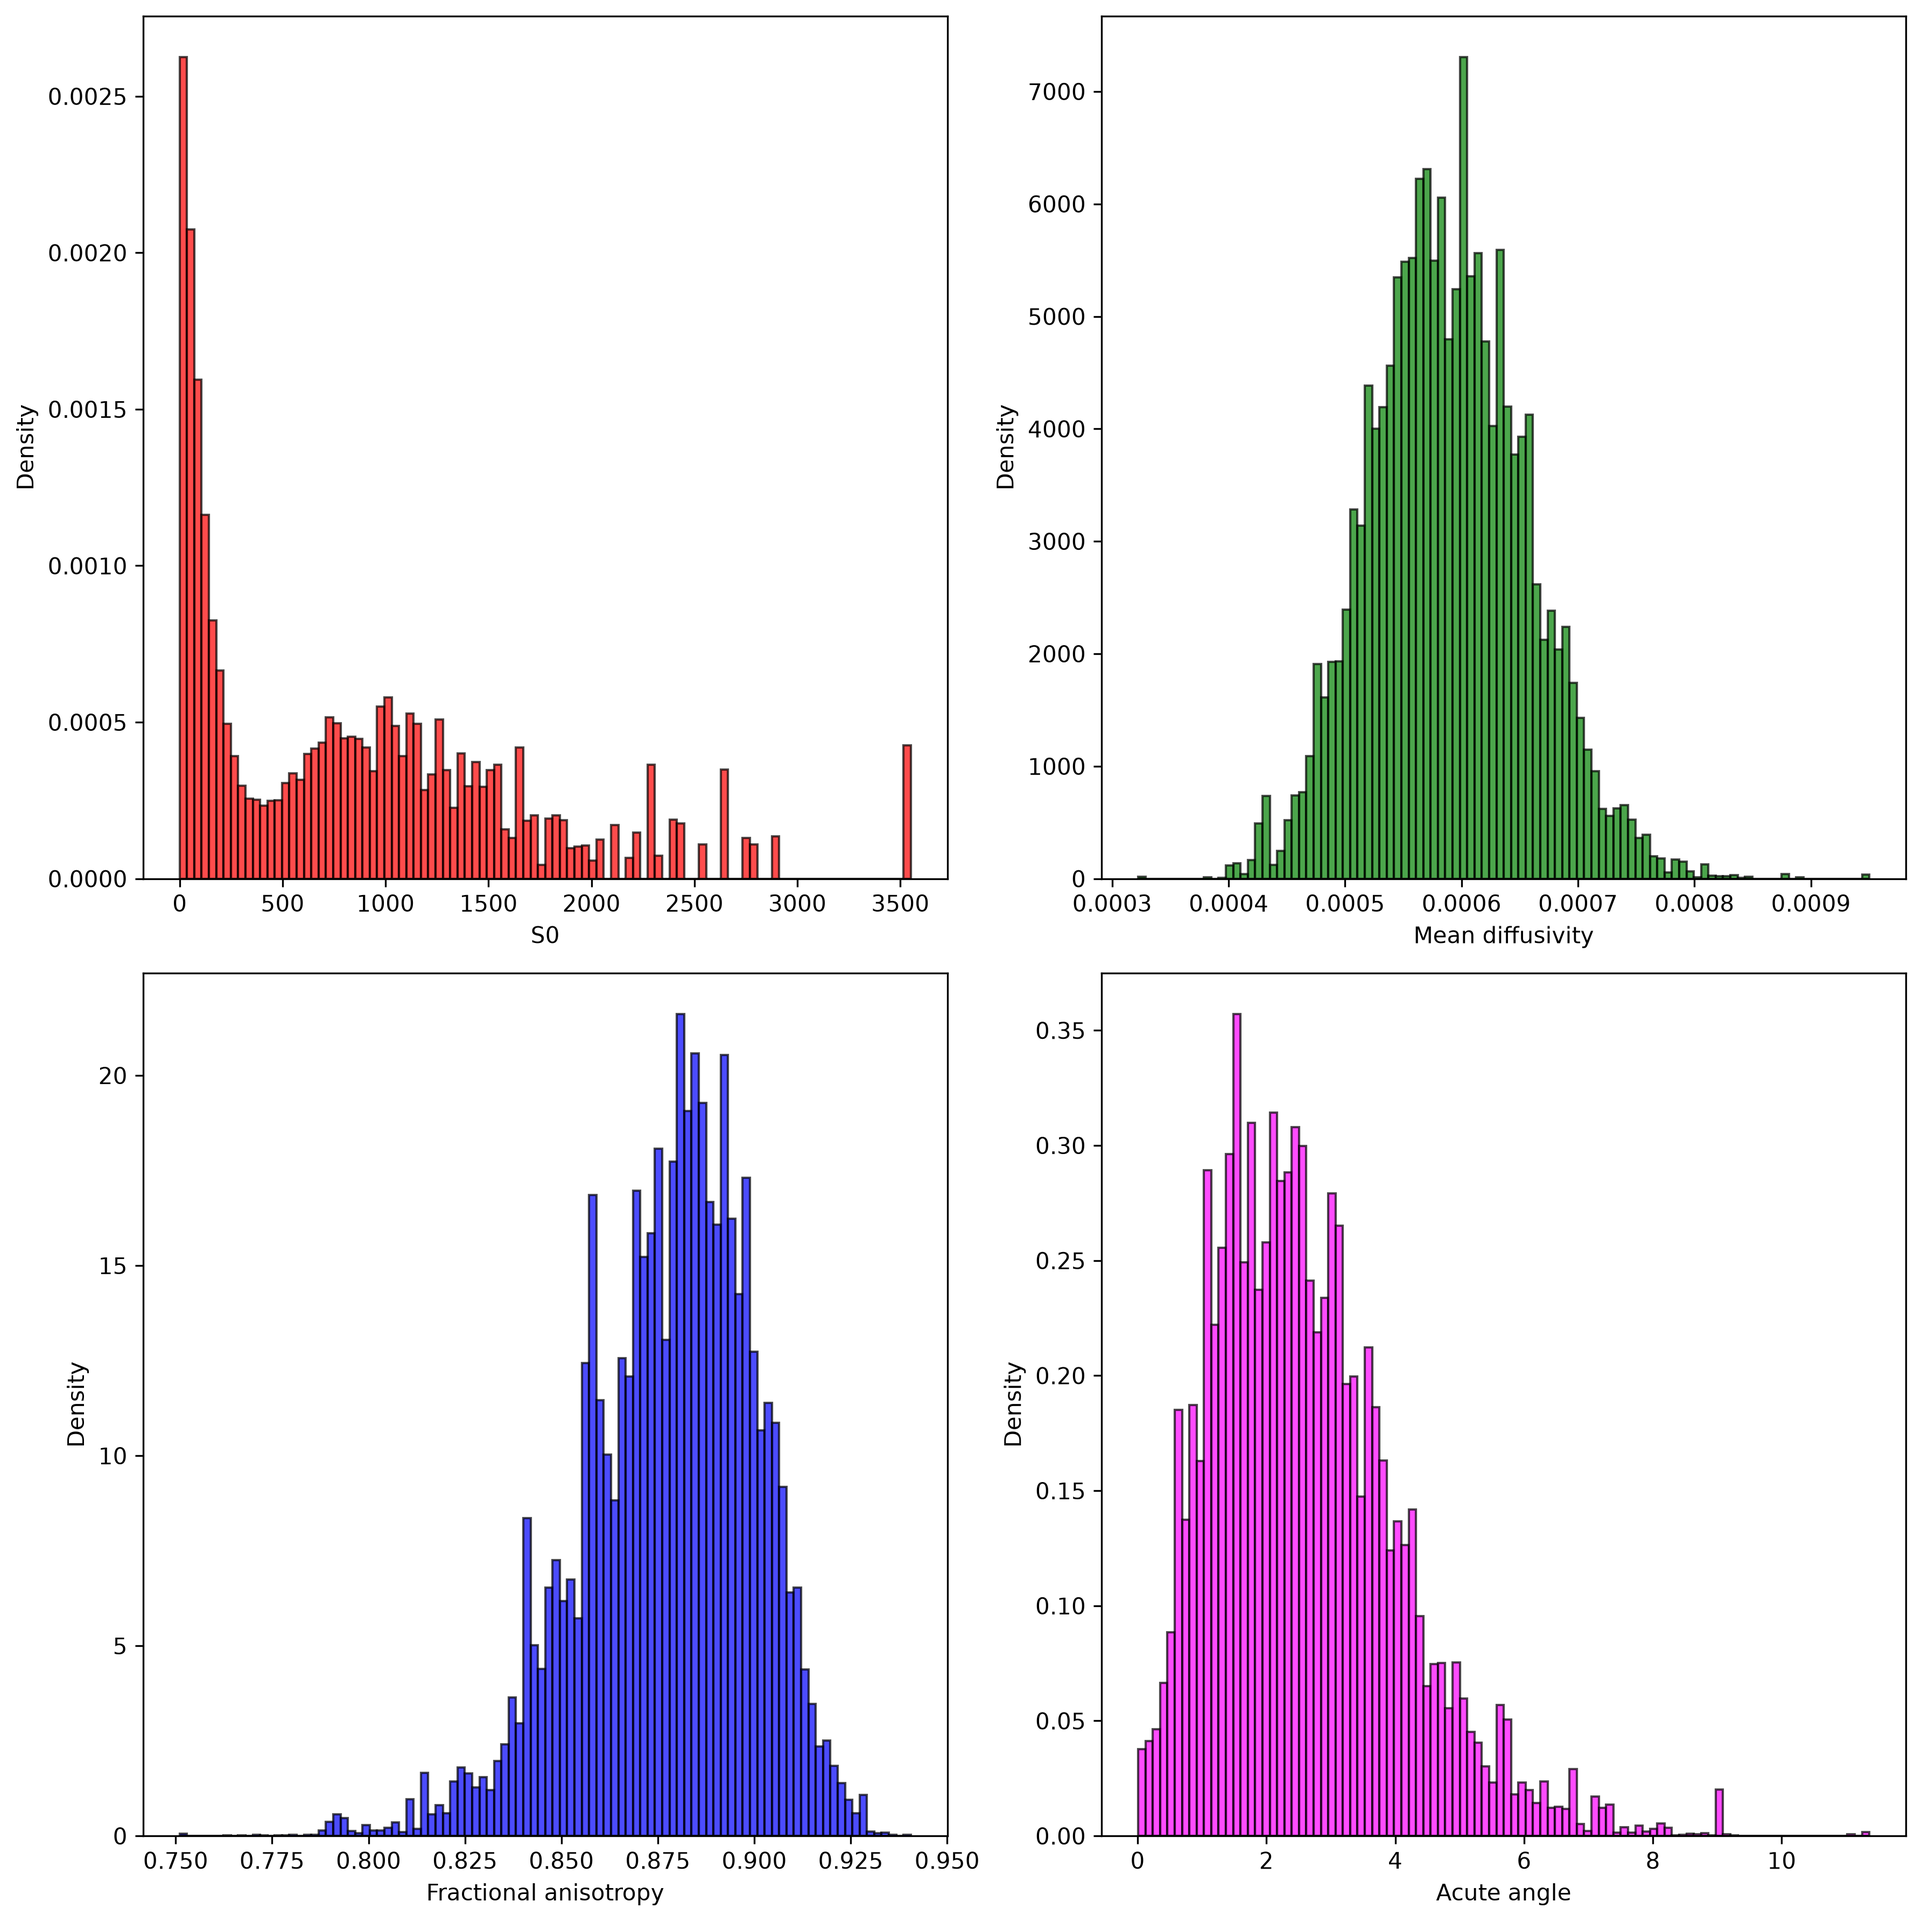
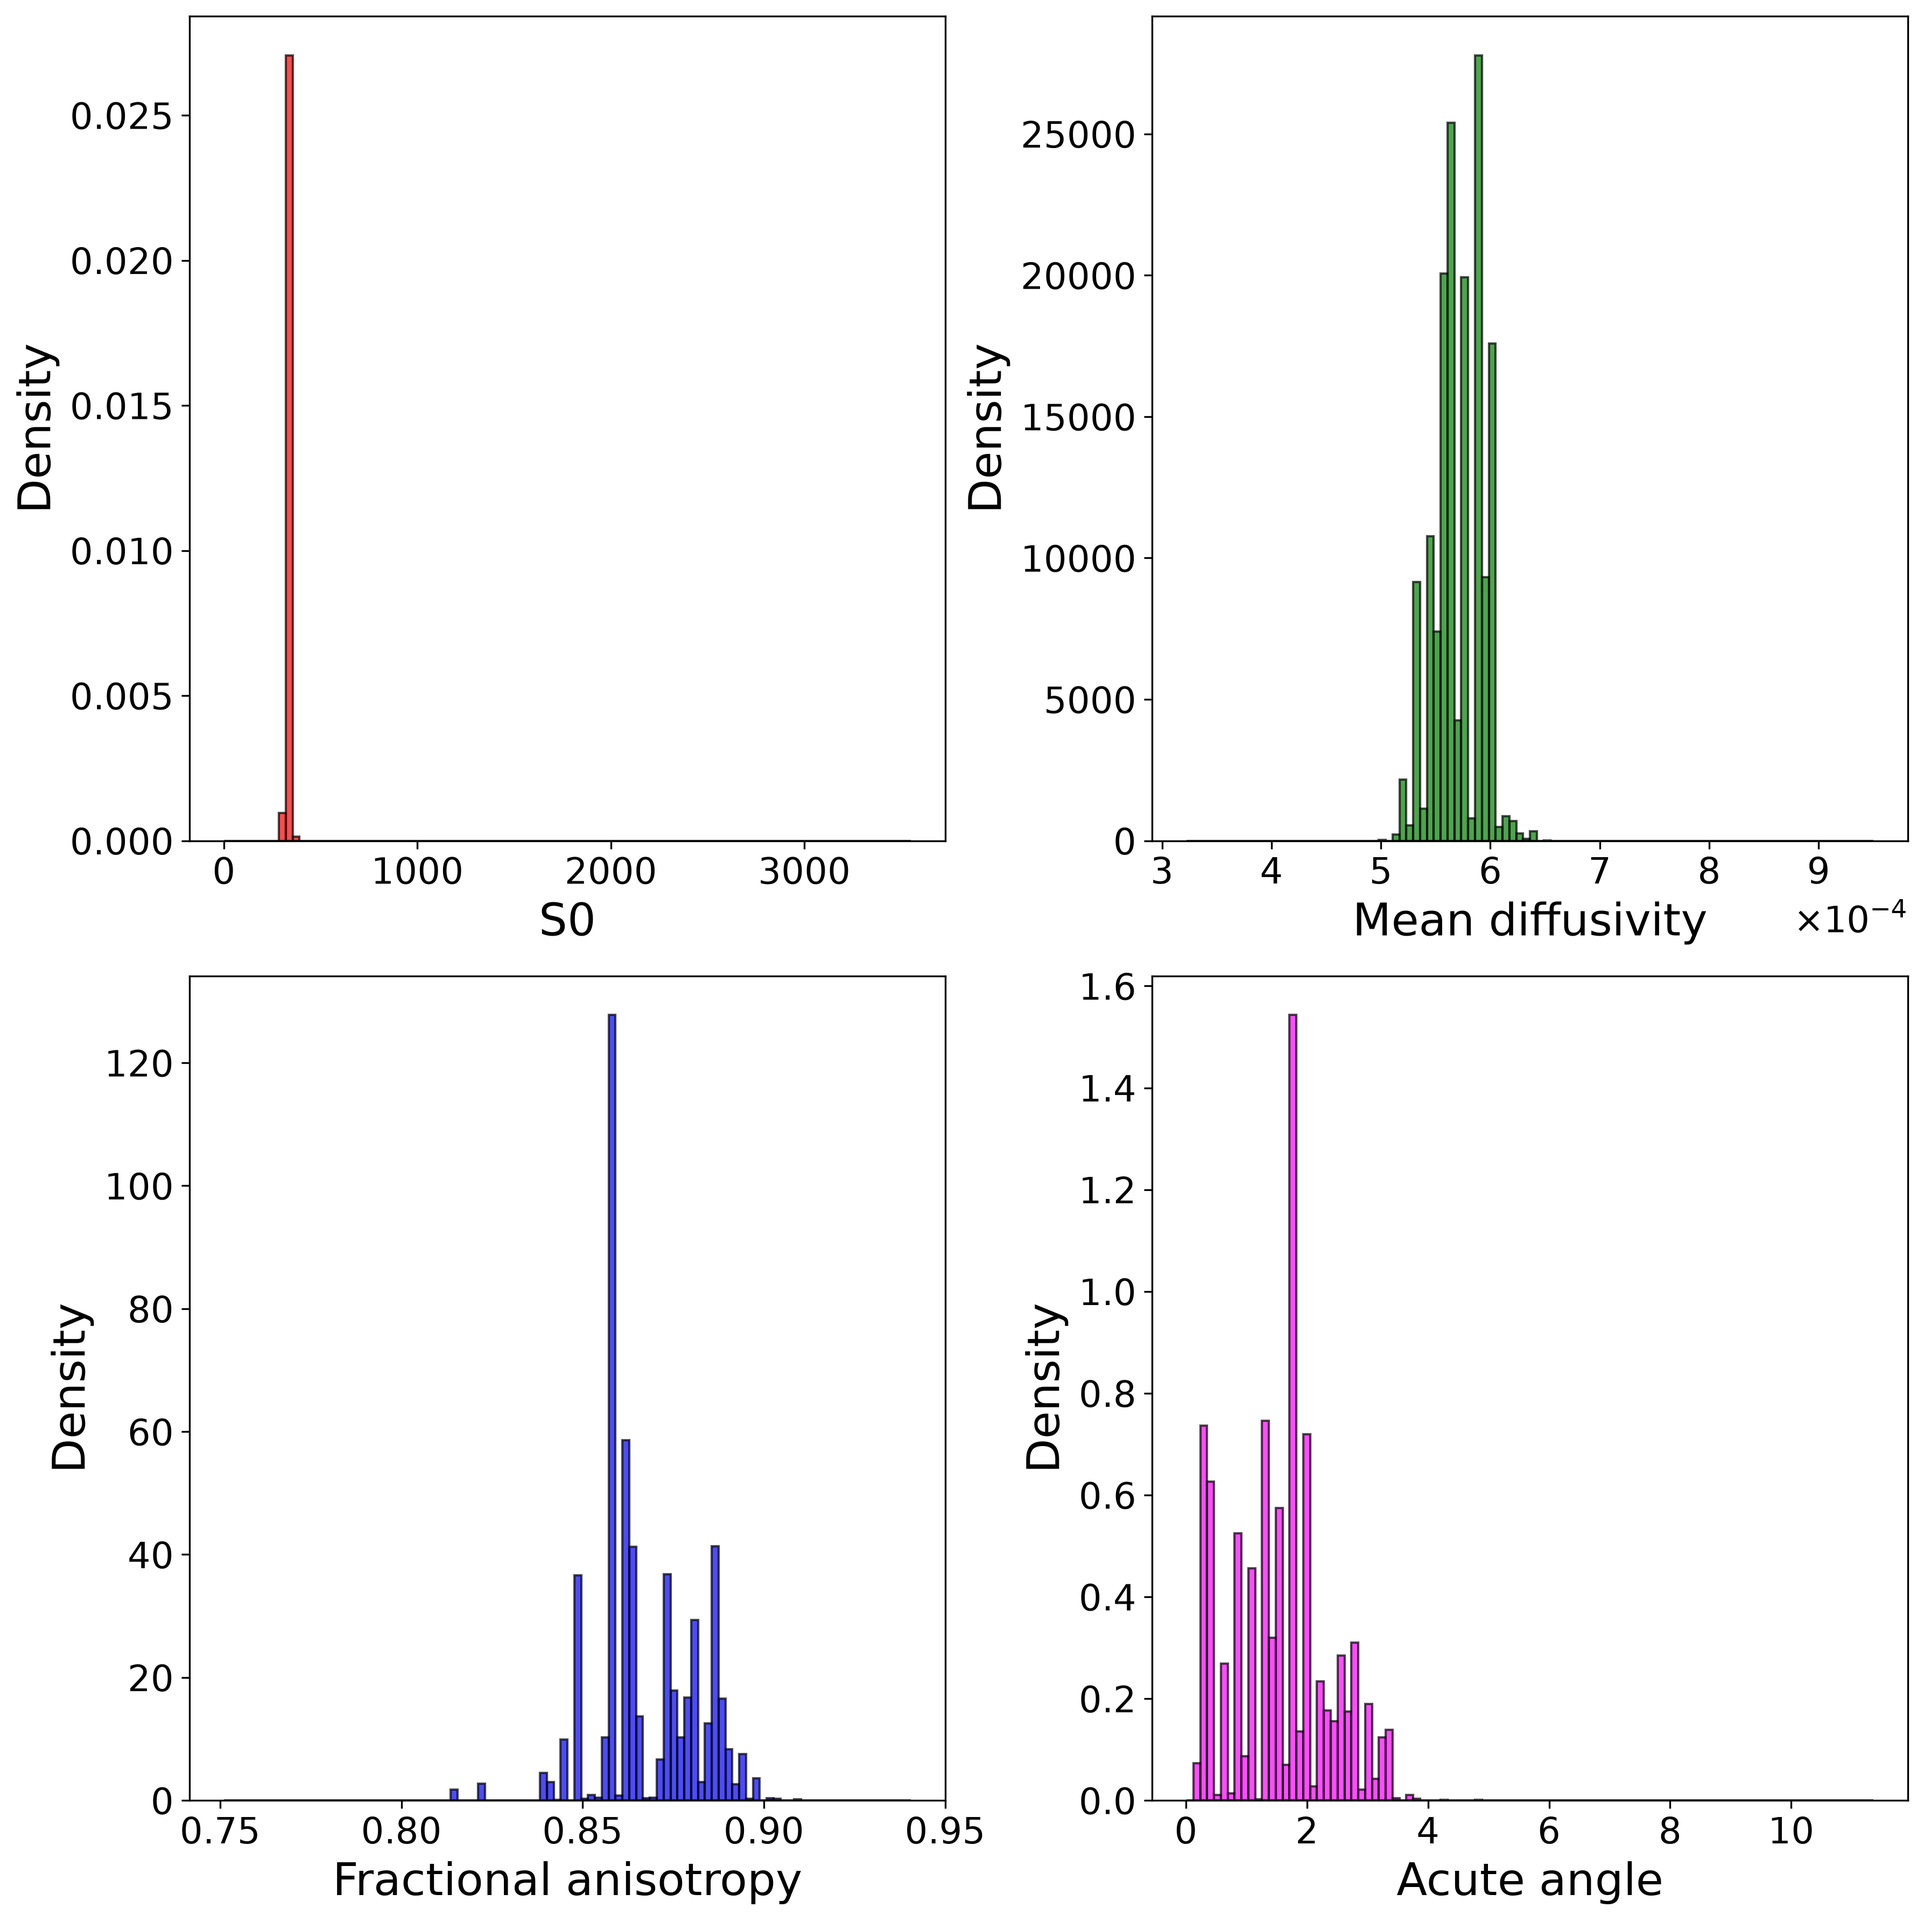
Add SMC and fix figure scaling

diff --git a/dmri_project.py b/dmri_project.py
@@ -575,7 +575,7 @@ def metropolis_hastings(n_samples, gamma_param, nu_param, plot_traces=False):
     return S0_samples, evals_samples, evecs_samples
 
 
-#@disk_memoize()
+@disk_memoize()
 def importance_sampling(prior, likelihood, y, n_samples, gamma_param, nu_param, S0_init, D_init):
     # Students: implement Importance Sampling here.
     # Before starting, make sure the prior and likelihood are implemented.
@@ -641,9 +641,79 @@ def importance_sampling(prior, likelihood, y, n_samples, gamma_param, nu_param, 
 
     return importance_weights, S0_samples, evals_samples, evecs_samples  #S0_samples, evals_samples, evecs_samples
 
-
+@disk_memoize()
 def sequential_monte_carlo_sampling(prior, likelihood, y, n_samples, gamma_param, nu_param, S0_init, D_init):
-    pass
+    # Importance sampling jumps directly to from proposal to posterior, in SMCS we move in internediate distributions
+    # z = (S0, lam1, lam2, lam 3, V)
+    # p(z|y) \prop p(z)p(y|z)
+    # pi_t(z) \prop p(z)p(y|z)^(beta)
+    s0, lam1, lam2, lam3, V = prior.rvs(size=n_samples)
+
+    log_weights = np.full(n_samples, -np.log(n_samples))
+    evals = np.array([lam1,lam2,lam3]).T
+    log_likelihoods = np.array([likelihood.logpdf(
+        S0=s0[i], 
+        evals=evals[i],
+        evecs=V[i], 
+        y=y
+    ) for i in range(n_samples)], dtype=float)
+
+    prev_beta = 0.0
+    betas = np.linspace(0,1,1001)
+    for beta in betas:
+        log_weights += (beta-prev_beta) *log_likelihoods
+        log_weights -= logsumexp(log_weights)
+
+        weights = np.exp(log_weights)
+        effective_sample_size = 1/np.sum(weights**2)
+        #print(f"effective sample size (N_ESS) before resampling beta={beta}: {effective_sample_size} out of total {n_samples}")
+        if(effective_sample_size < 0.8*n_samples):
+            # resampling if we have too low ess
+            indices = np.random.choice(
+                n_samples, size=n_samples, replace=True, p=weights
+            )
+            s0 = s0[indices]
+            evals = evals[indices]
+            V = V[indices]
+            log_likelihoods = log_likelihoods[indices]
+            log_weights.fill(-np.log(n_samples)) # equalize all weights
+
+            # rejuvenate
+            new_s0, new_lam1, new_lam2, new_lam3, new_V = prior.rvs(size=n_samples)
+
+            new_evals = np.array([new_lam1,new_lam2,new_lam3]).T
+            new_log_likelihoods = np.array([likelihood.logpdf(
+                S0=new_s0[i], 
+                evals=new_evals[i],
+                evecs=new_V[i], 
+                y=y
+            ) for i in range(n_samples)], dtype=float)
+
+            log_acceptance = beta * (new_log_likelihoods - log_likelihoods)
+            
+            accept = np.log(np.random.random(n_samples)) < log_acceptance
+
+            s0[accept] = new_s0[accept]
+            evals[accept] = new_evals[accept]
+            V[accept] = new_V[accept]
+            log_likelihoods[accept] = new_log_likelihoods[accept]
+
+            #print(f"Rejuvenation acceptance: {np.mean(accept)}")
+            states = np.column_stack((s0, evals, V.reshape(n_samples, -1)))
+
+            #print(f"beta={beta:.4f}, ESS before={effective_sample_size:.0f}")
+            #print("distinct before:", np.unique(
+            #    np.column_stack((s0, evals, V.reshape(n_samples, -1))), axis=0
+            #).shape[0])
+            #print("distinct resampled indices:", np.unique(indices).size)
+            #print("moves accepted:", np.count_nonzero(accept))
+
+        prev_beta = beta
+    order = np.argsort(evals, axis=1)
+    evals = np.take_along_axis(evals, order, axis=1)
+    V = np.take_along_axis(V, order[:, None, :], axis=2)
+    return np.exp(log_weights), s0, evals, V
+
 
 
 @disk_memoize()
@@ -789,30 +859,30 @@ def main():
     prior = frozen_prior(alpha_s, theta_s, alpha_lambda, theta_lambda)
 
 
-    print("prior logpdf: ",prior.logpdf(S0_init,evals_init[0],evals_init[1],evals_init[2],evecs_init))
+    #print("prior logpdf: ",prior.logpdf(S0_init,evals_init[0],evals_init[1],evals_init[2],evecs_init))
 
     likelihood = frozen_likelihood(gtab, sigma)
     a = likelihood.logpdf(S0_init, evecs_init, evals_init, y)
-    print("likelihood logpdf: ",a)
+    #print("likelihood logpdf: ",a)
     
     # Run Metropolis–Hastings and plot results
-    S0_mh, evals_mh, evecs_mh = metropolis_hastings(force_recompute=False)
-    burn_in = 0
-    plot_results(S0_mh[burn_in:], evals_mh[burn_in:], evecs_mh[burn_in:, :, :], evec_principal, method="mh")
+    #S0_mh, evals_mh, evecs_mh = metropolis_hastings(force_recompute=False)
+    #burn_in = 0
+    #plot_results(S0_mh[burn_in:], evals_mh[burn_in:], evecs_mh[burn_in:, :, :], evec_principal, method="mh")
 
     # Run Importance Sampling and plot results
     # gamma_param, nu_param = 1, 10
-    # gamma_params = [0.9, 0.93, 0.94, 0.95, 0.96,0.97,0.98,0.99, 1, 1.05, 1.1, 1.2]
-    # nu_params = [100, 101, 102,103,104, 105,110]
-    # for gamma_param in gamma_params:
-    #     for nu_param in nu_params: 
-    #         #a = likelihood.logpdf(S0_init, evecs_init, evals_init, y)
-    #         w_is, S0_is, evals_is, evecs_is = importance_sampling(
-    #             prior, likelihood, y, n_samples, gamma_param, nu_param, S0_init, D_init
-    #         )#, force_recompute=False)
-    #         normalized_importance_weights = np.exp(w_is - logsumexp(w_is))
-    #         effective_sample_size = 1/np.sum(normalized_importance_weights**2)
-    #         print(f"effective sample size (N_ESS) at gamma={gamma_param} and nu={nu_param}: {effective_sample_size}")
+    #gamma_params = [0.9, 0.93, 0.94, 0.95, 0.96,0.97,0.98,0.99, 1, 1.05, 1.1, 1.2]
+    #nu_params = [100, 101, 102,103,104, 105,110]
+    #for gamma_param in gamma_params:
+    #    for nu_param in nu_params: 
+    #        #a = likelihood.logpdf(S0_init, evecs_init, evals_init, y)
+    #        w_is, S0_is, evals_is, evecs_is = importance_sampling(
+    #            prior, likelihood, y, n_samples, gamma_param, nu_param, S0_init, D_init
+    #        )#, force_recompute=False)
+    #        normalized_importance_weights = np.exp(w_is - logsumexp(w_is))
+    #        effective_sample_size = 1/np.sum(normalized_importance_weights**2)
+    #        print(f"effective sample size (N_ESS) at gamma={gamma_param} and nu={nu_param}: {effective_sample_size}")
     # manual testing gives these as optimal (with roughly 20 effective samples, which is quite bad)
     gamma_param = 0.98
     nu_param=105
@@ -823,29 +893,32 @@ def main():
     effective_sample_size = 1/np.sum(normalized_importance_weights**2)
     print(f"effective sample size (N_ESS) at gamma={gamma_param} and nu={nu_param}: {effective_sample_size} out of total {n_samples}")
     
-    sequential_monte_carlo_sampling(
+    plot_results(S0_is, evals_is, evecs_is, evec_principal, weights=normalized_importance_weights, method="is", large_text=True)
+
+    w_smc, S0_smc, evals_smc, evecs_smc = sequential_monte_carlo_sampling(
         prior, likelihood, y, n_samples, gamma_param, nu_param, S0_init, D_init
     )
 
+    plot_results(S0_smc, evals_smc, evecs_smc, evec_principal, weights=w_smc, method="smc", large_text=True)
 
-    plot_results(S0_is, evals_is, evecs_is, evec_principal, weights=w_is, method="is")
+
 
 
 
     # Run Variational Inference and plot results
-    posterior_vi = variational_inference(force_recompute=False)
-    S0_vi, evals_vi, evecs_vi = posterior_vi.rvs(size=n_samples)
-    plot_results(S0_vi, evals_vi, evecs_vi, evec_principal, method="vi")
+    # posterior_vi = variational_inference(force_recompute=False)
+    # S0_vi, evals_vi, evecs_vi = posterior_vi.rvs(size=n_samples)
+    # plot_results(S0_vi, evals_vi, evecs_vi, evec_principal, method="vi")
 
-    # Run Laplace Approximation and plot results
-    posterior_laplace = laplace_approximation(force_recompute=False)
-    S0_laplace, evals_laplace, evecs_laplace = posterior_laplace.rvs(size=n_samples)
-    plot_results(S0_laplace, evals_laplace, evecs_laplace, evec_principal, method="laplace")
+    # # Run Laplace Approximation and plot results
+    # posterior_laplace = laplace_approximation(force_recompute=False)
+    # S0_laplace, evals_laplace, evecs_laplace = posterior_laplace.rvs(size=n_samples)
+    # plot_results(S0_laplace, evals_laplace, evecs_laplace, evec_principal, method="laplace")
 
     print("Done.")
 
 
-def plot_results(S0, evals, evecs, evec_ref, weights=None, method=""):
+def plot_results(S0, evals, evecs, evec_ref, weights=None, method="", large_text=False):
     """
     Plot posterior results as histograms and save to file.
 
@@ -888,6 +961,14 @@ def plot_results(S0, evals, evecs, evec_ref, weights=None, method=""):
     
     # Create 2x2 grid of histograms
     fig, axes = plt.subplots(2, 2, figsize=(12, 12), sharey=False)
+    if(large_text):
+        for ax in axes.flat:
+            ax.tick_params(axis="both", labelsize=16)
+            ax.xaxis.label.set_size(20)
+            ax.yaxis.label.set_size(20)
+            ax.xaxis.get_offset_text().set_fontsize(16)
+            ax.yaxis.get_offset_text().set_fontsize(16)
+
 
     axes[0, 0].hist(S0, bins=n_bins, density=True, weights=weights, 
                     alpha=0.7, color='red', edgecolor='black')
@@ -898,7 +979,10 @@ def plot_results(S0, evals, evecs, evec_ref, weights=None, method=""):
                     alpha=0.7, color='green', edgecolor='black')
     axes[0, 1].set_xlabel("Mean diffusivity")
     axes[0, 1].set_ylabel("Density")
-
+    if(large_text): # fix unreadable text
+        axes[0, 1].ticklabel_format(
+            axis="x", style="sci", scilimits=(0,0), useMathText=True, useOffset=False
+        )
     axes[1, 0].hist(fa, bins=n_bins, density=True, weights=weights,
                      alpha=0.7, color='blue', edgecolor='black')
     axes[1, 0].set_xlabel("Fractional anisotropy")
